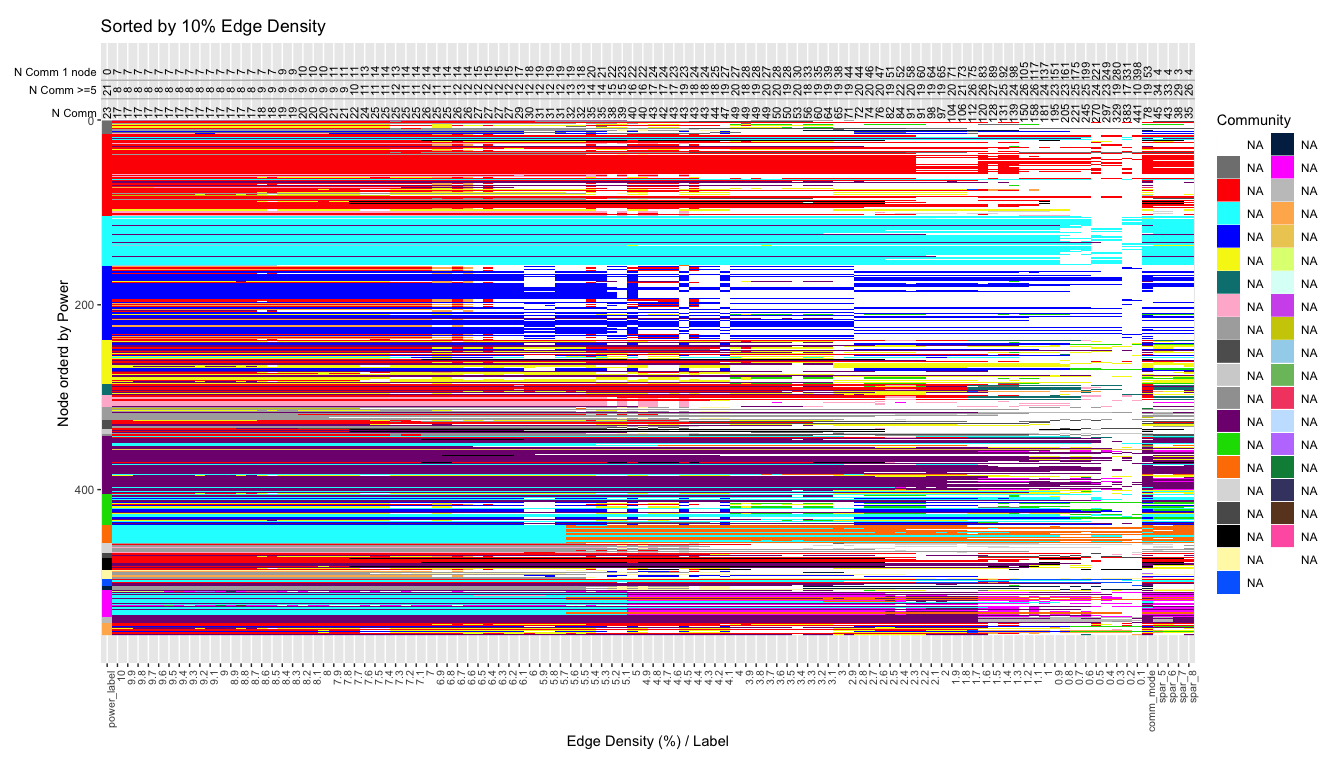
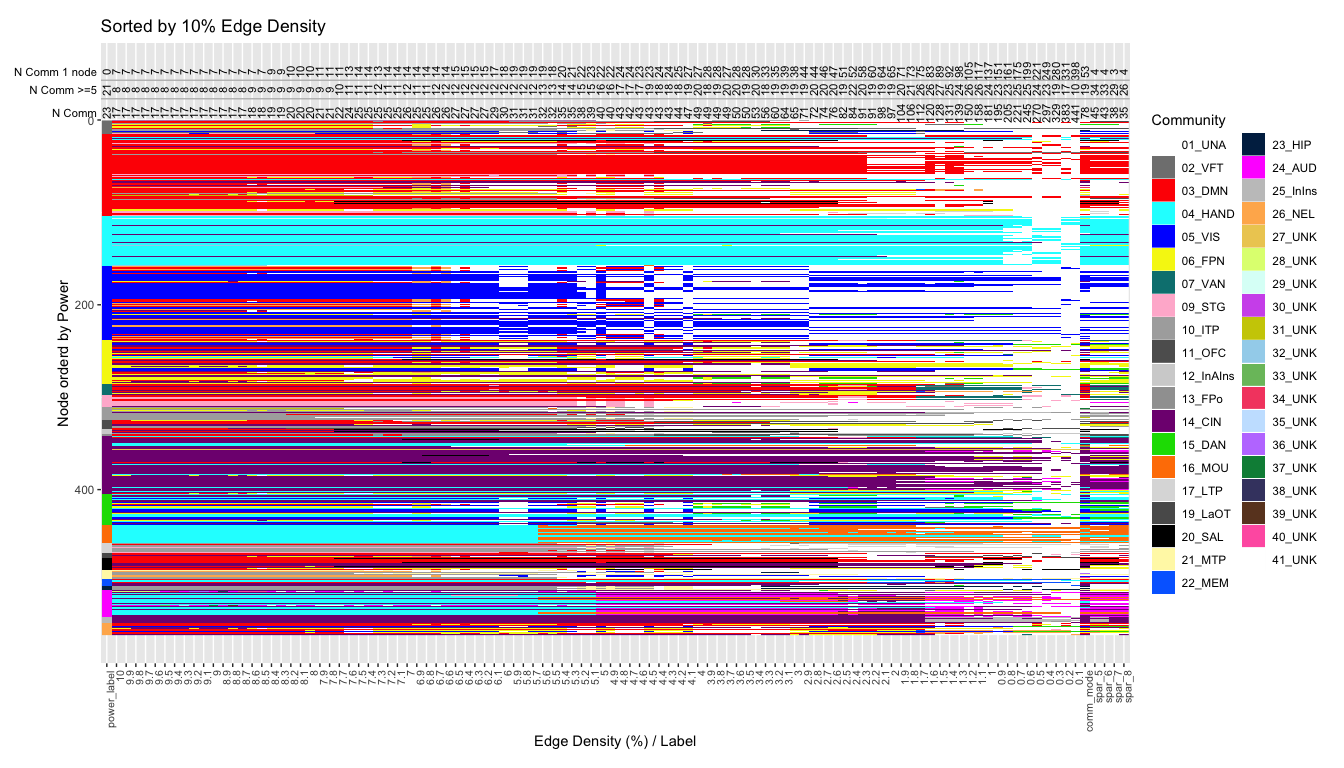
Update legend to show shortened system name
* previously missing "ShortName" column in systemlabel.txt

diff --git a/README.md b/README.md
@@ -131,13 +131,13 @@ syslabel <- read.csv("./data/systemlabel.txt")
 head(syslabel)
 ```
 
-    ##   CommID   R   G   B     hex                       LabelName
-    ## 1      1 255 255 255 #ffffff                   u1_Unassigned
-    ## 2      2 128 128 128 #808080     u2_Ventral_frontal_temporal
-    ## 3      3 255   0   0 #ff0000                 a3_Default_mode
-    ## 4      4   0 255 255 #00ffff     a4_Hand_somatosensory-motor
-    ## 5      5   0   0 255 #0000ff                       a5_Visual
-    ## 6      6 245 245  15 #f5f50f a6_Fronto-parietal_task_control
+    ##   CommID   R   G   B     hex                       LabelName ShortName
+    ## 1      1 255 255 255 #ffffff                   u1_Unassigned    01_UNA
+    ## 2      2 128 128 128 #808080     u2_Ventral_frontal_temporal    02_VFT
+    ## 3      3 255   0   0 #ff0000                 a3_Default_mode    03_DMN
+    ## 4      4   0 255 255 #00ffff     a4_Hand_somatosensory-motor   04_HAND
+    ## 5      5   0   0 255 #0000ff                       a5_Visual    05_VIS
+    ## 6      6 245 245  15 #f5f50f a6_Fronto-parietal_task_control    06_FPN
 
   - A color palette `syscolor` is created to be feed into ggplot.
       - Note that the color for communities that don’t exist in this
